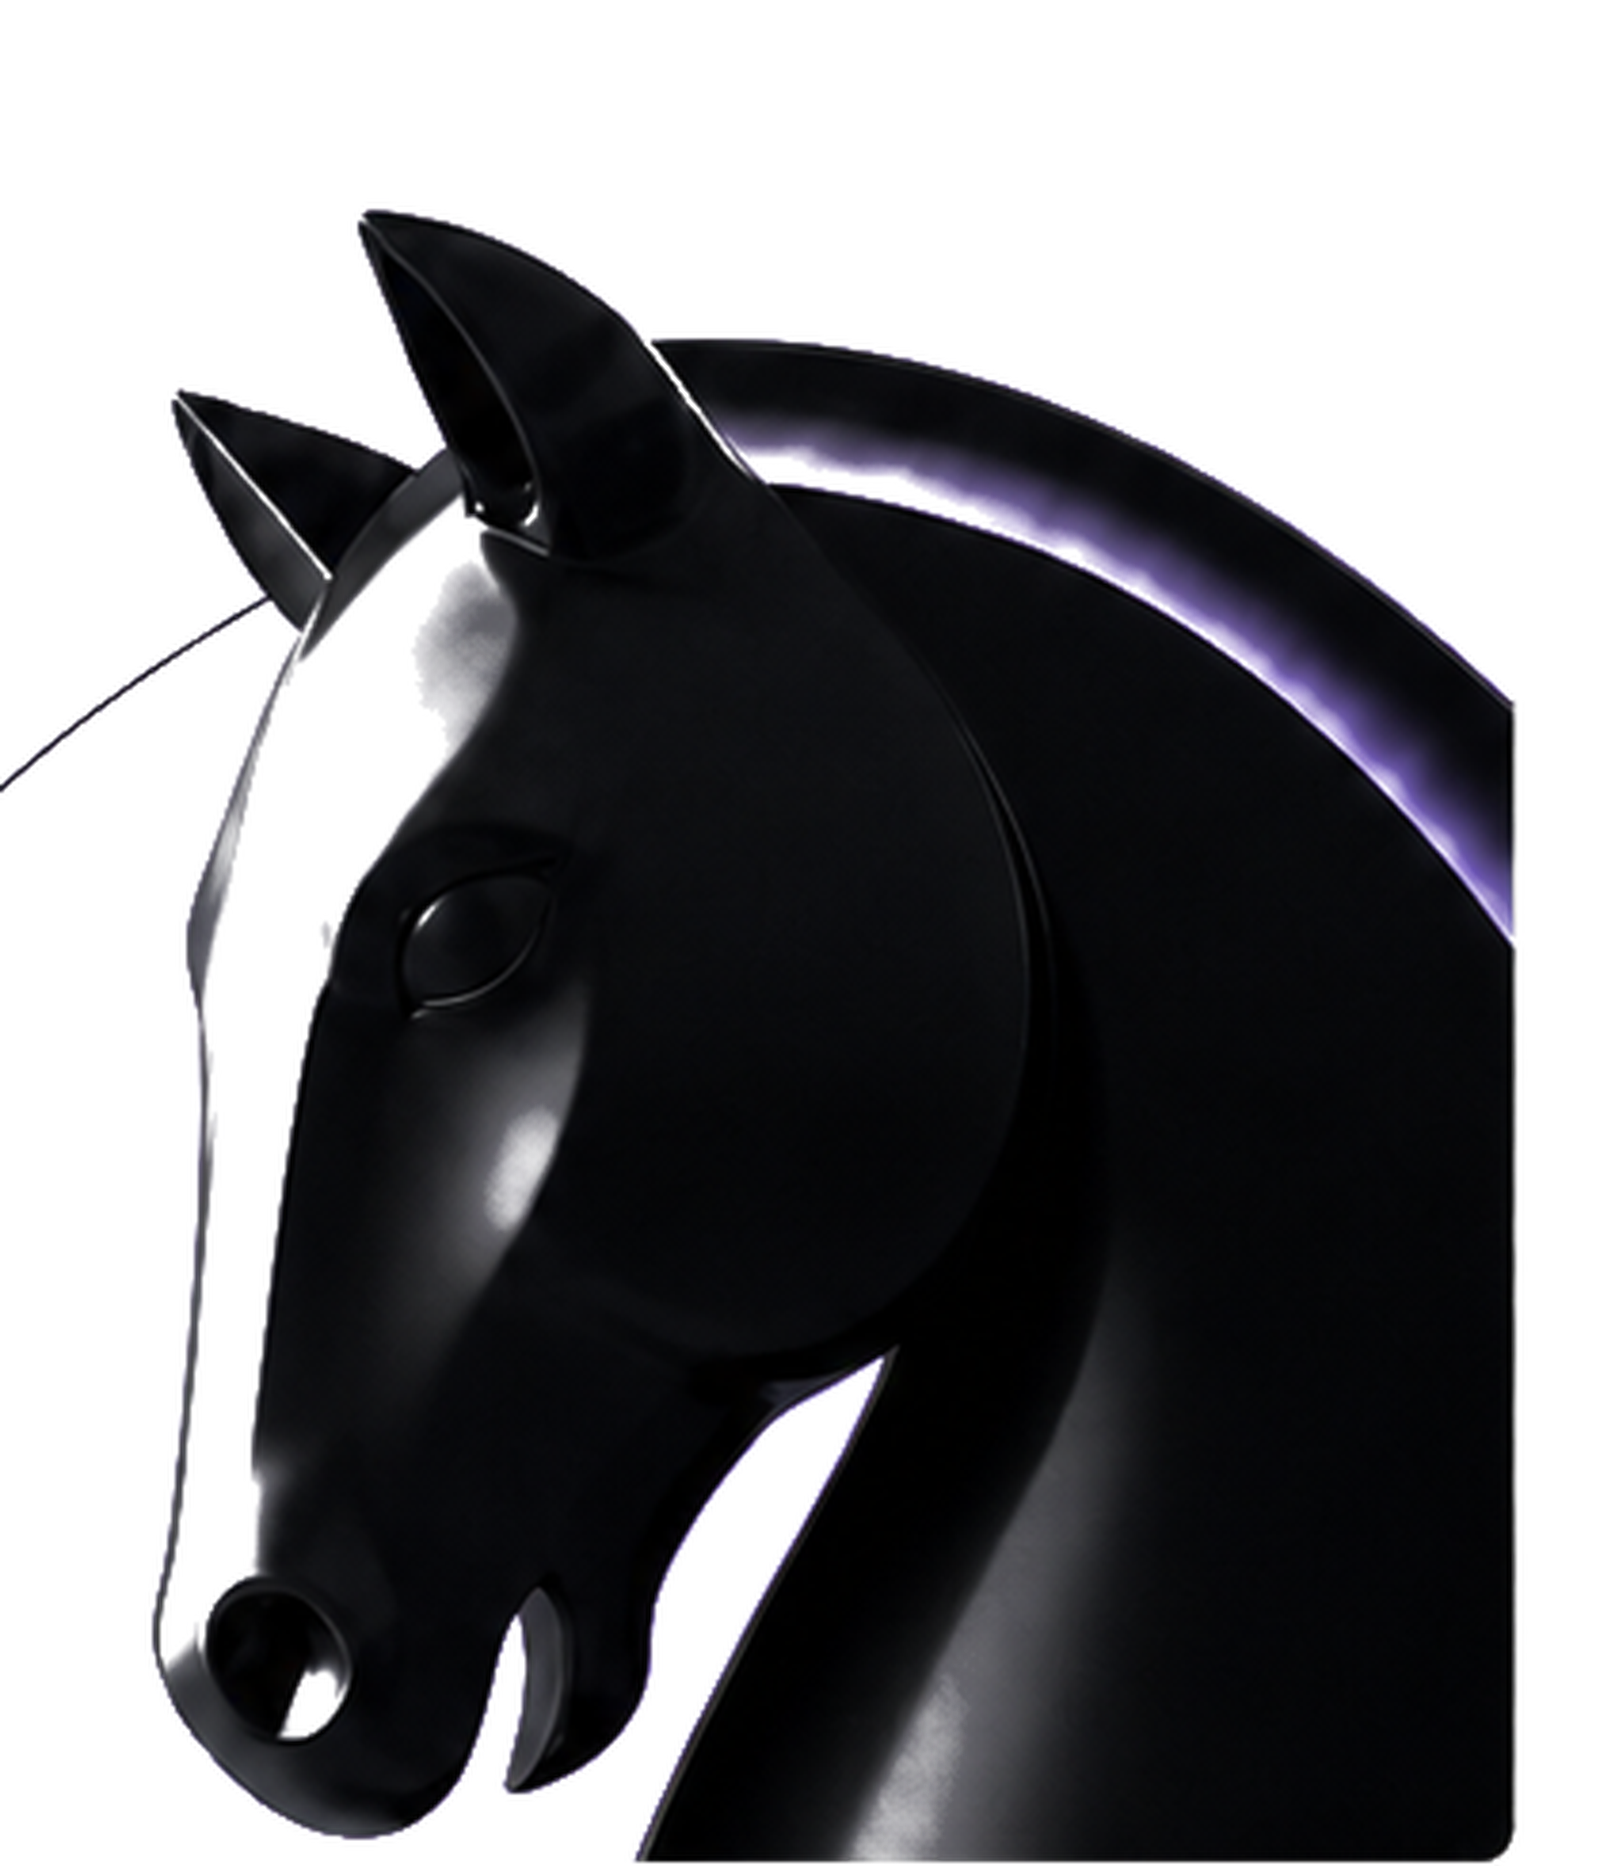
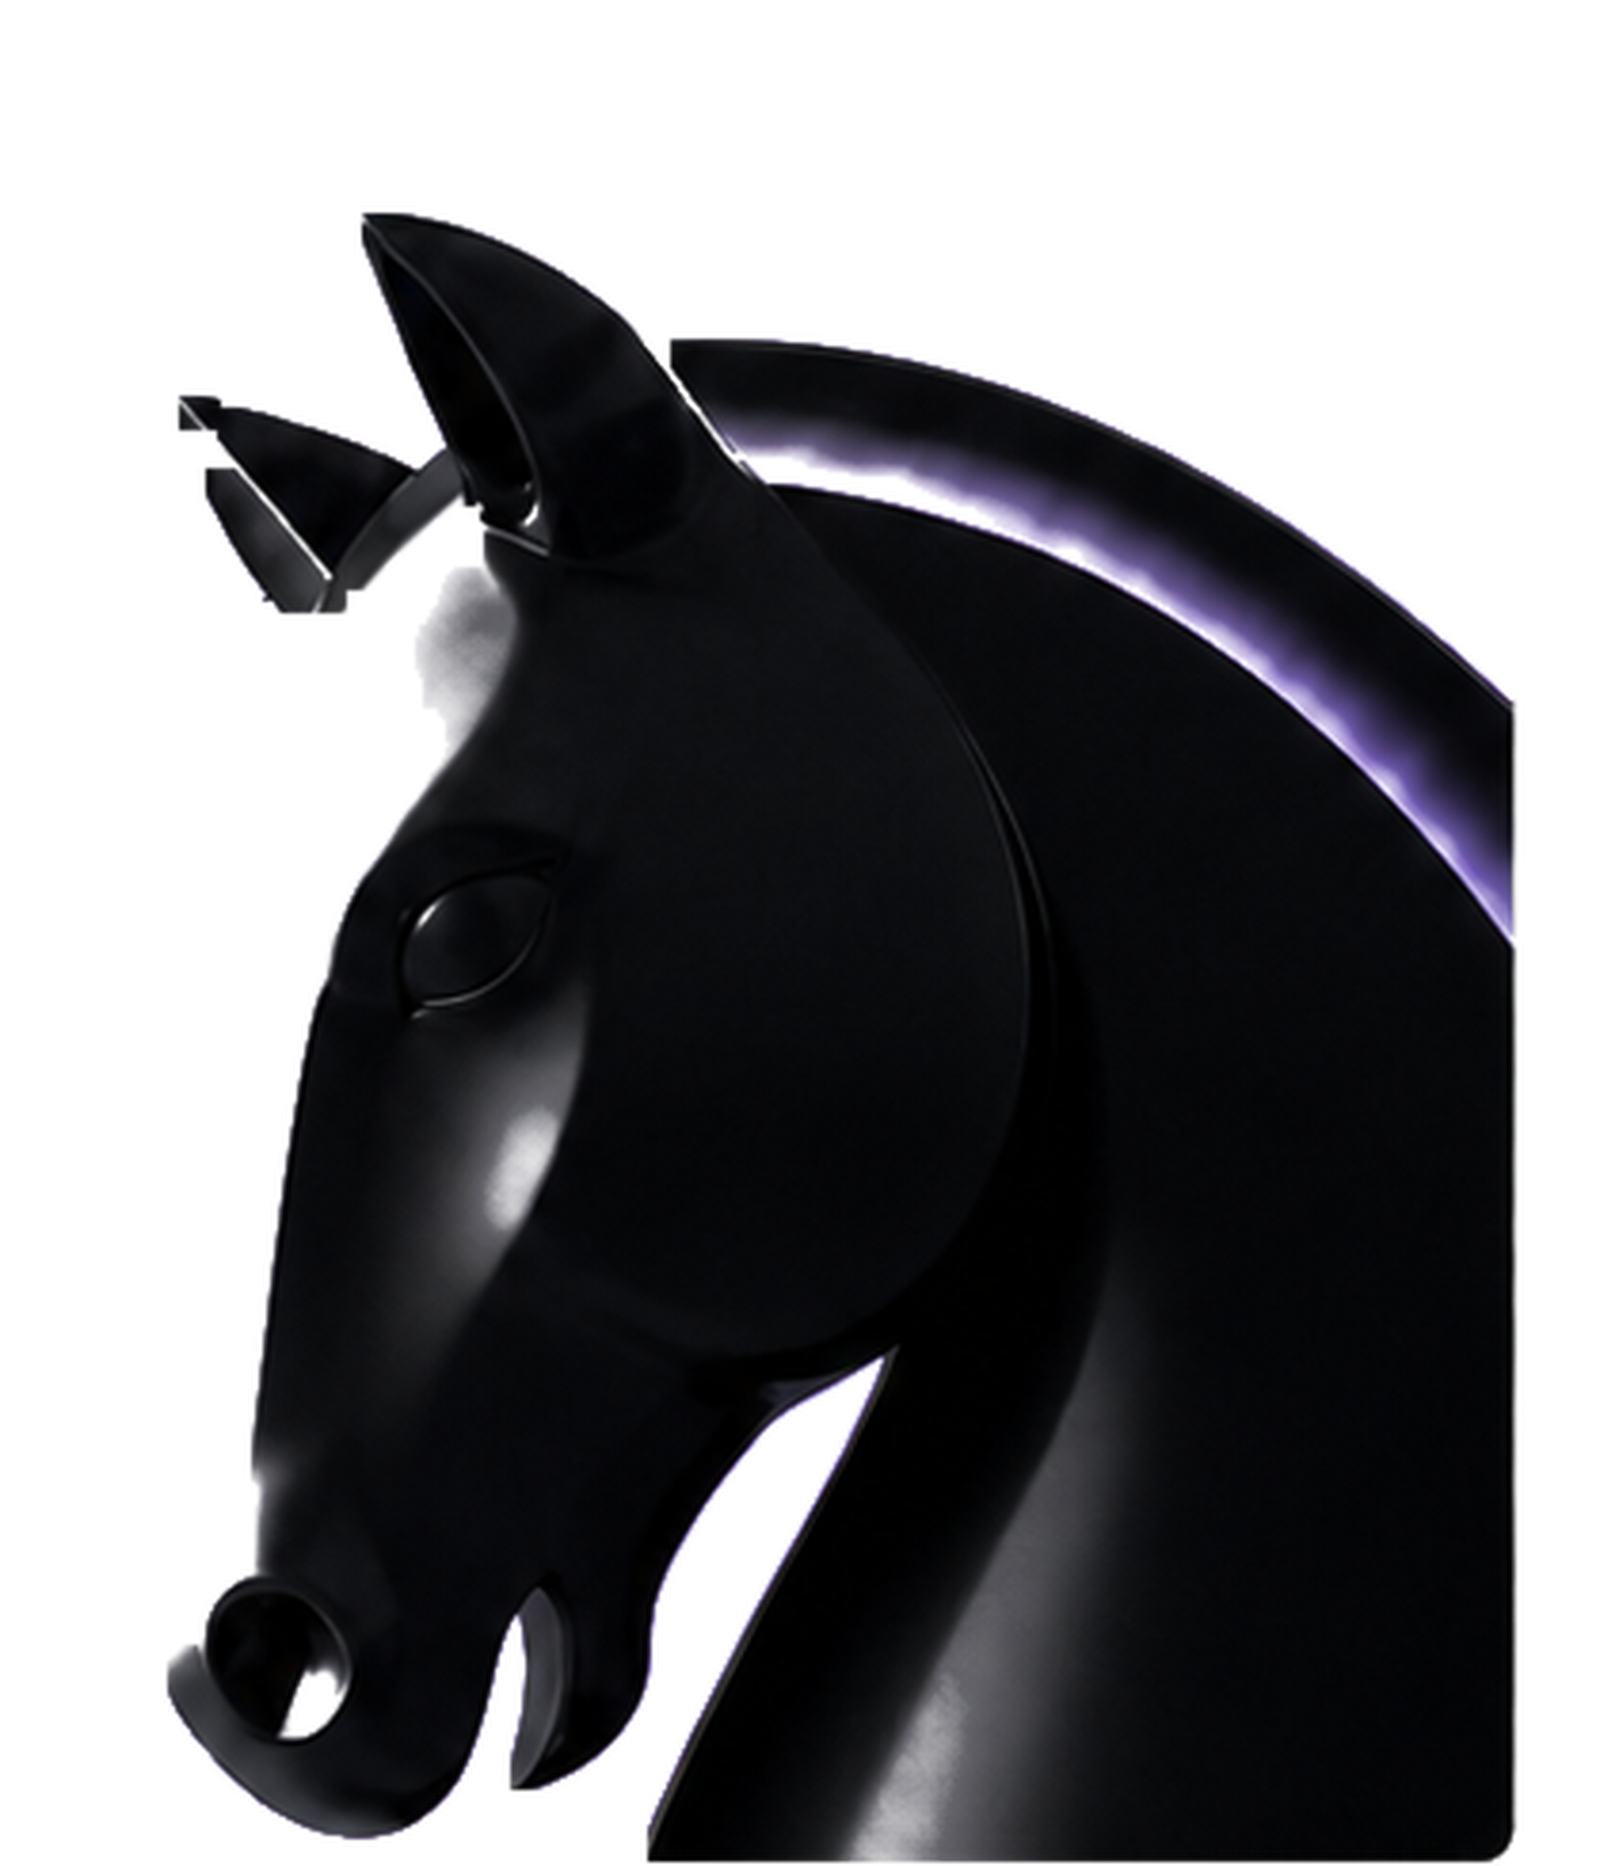
Knight: stronger erosion kills whisker line cleanly

diff --git a/index.html b/index.html
@@ -18,7 +18,7 @@
     <circle cx="250" cy="250" r="248" fill="none" stroke="#0A0A0A" stroke-width="1.25"/>
     <circle cx="250" cy="250" r="184" fill="none" stroke="#6E3CFF"  stroke-width="1"/>
   </svg>
-  <img class="hero__knight" src="assets/hero/chess-knight.png?v=50" alt="" aria-hidden="true"/>
+  <img class="hero__knight" src="assets/hero/chess-knight.png?v=51" alt="" aria-hidden="true"/>
 
   <div class="hero__topbar">
     <a class="hero__logo" href="/">SNIR<span class="dot"></span></a>
